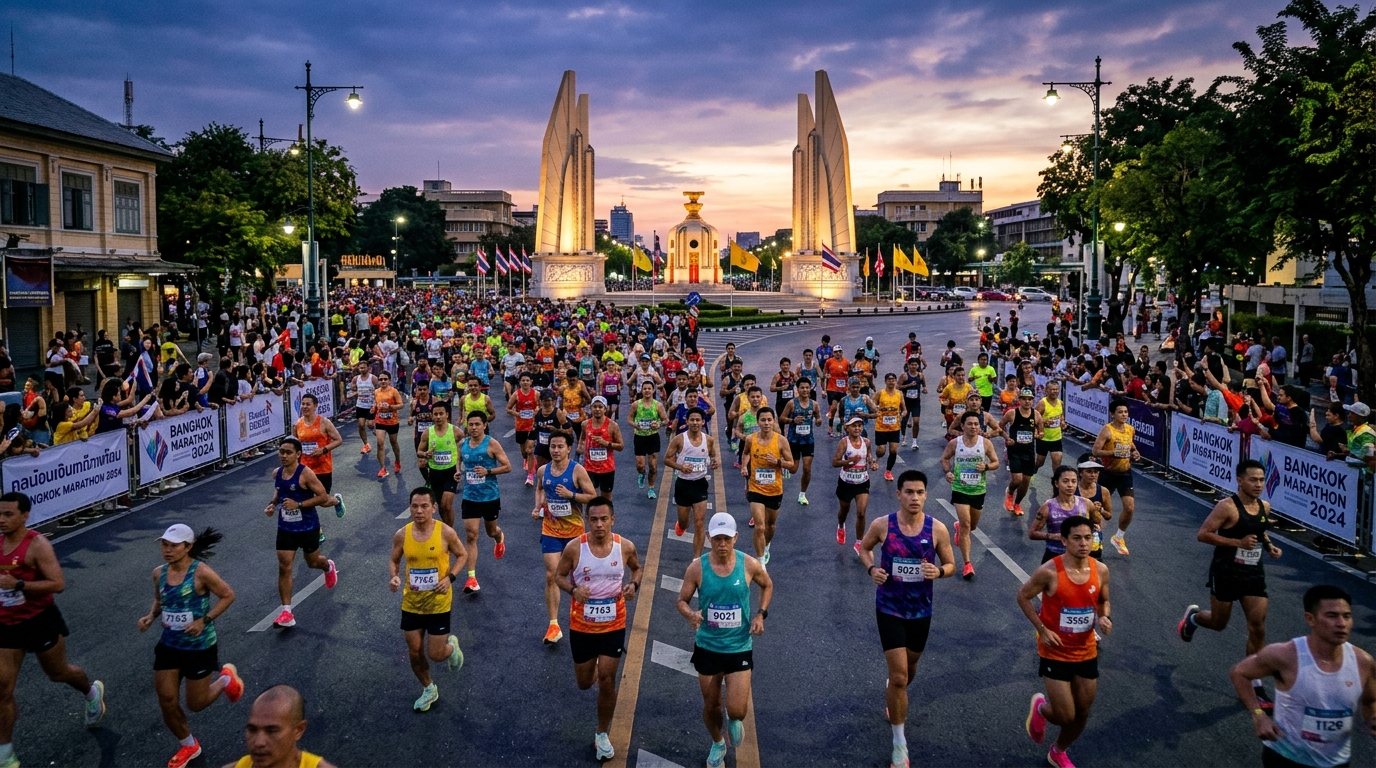
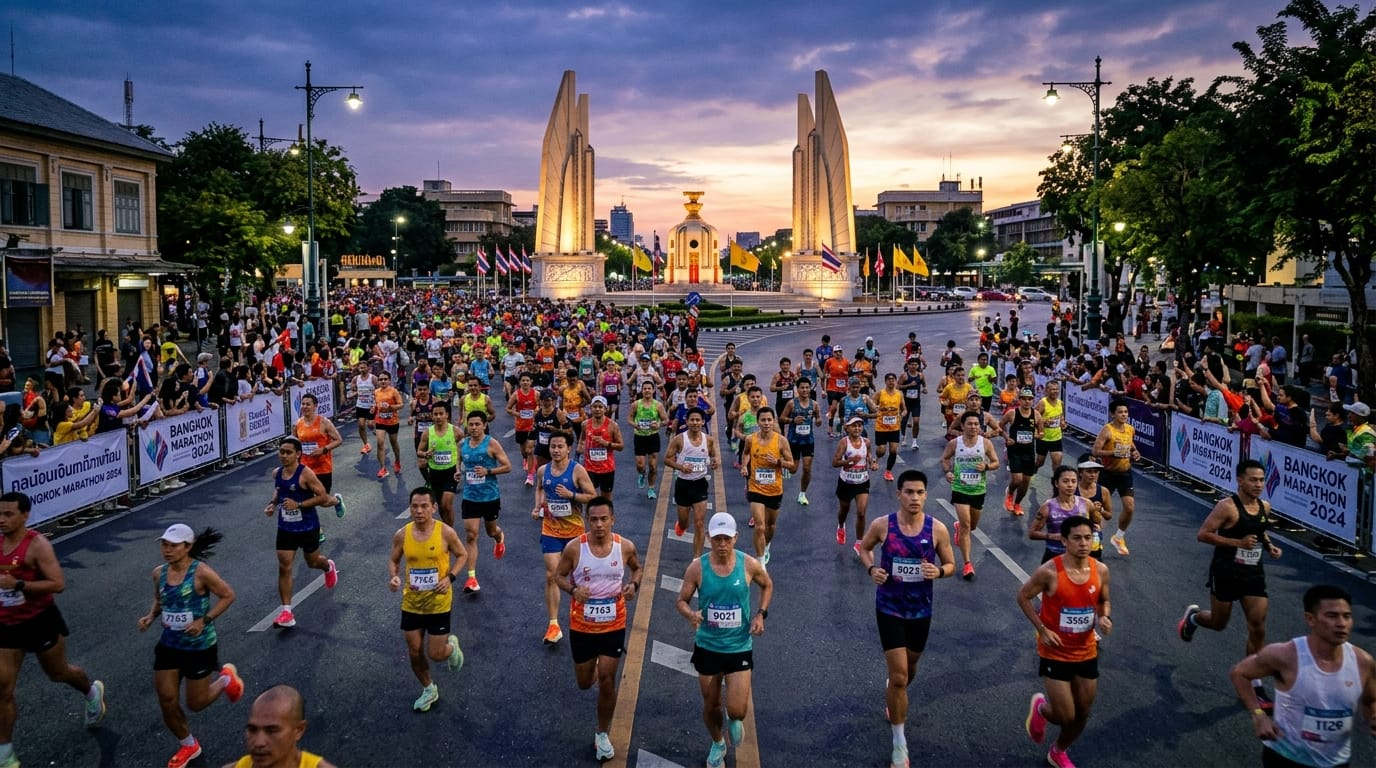
fix: review of Gemini's admin wizard merge: member's own place suggestions, smaller ATMBKK pictures (BE-388)
- PlacePicker "แนะนำช่วงนี้" uses /api/spots?home=1 (the member's picks) instead
  of the first four places in the catalog
- ATMBKK pictures resized to 1600px, quality 80: 4.4 MB -> 0.94 MB

diff --git a/components/moments/PlacePicker.tsx b/components/moments/PlacePicker.tsx
@@ -36,16 +36,16 @@ export function PlacePicker({ mine, onPickTarget, onPickName, onClose }: {
   const [near, setNear] = useState<{ lat: number; lng: number } | null>(null);
   const q = query.trim();
 
-  // Popular spots & upcoming events so first-time users see choices right away without GPS or typing
+  // Upcoming events and the places picked for this member (the home page's, ?home=1) so first-time posters see choices without GPS or typing
   useEffect(() => {
     let active = true;
     const get = (url: string) => fetch(url).then((res) => res.json()).catch(() => ({}));
-    Promise.all([get('/api/events?limit=3'), get('/api/spots?limit=4')]).then(([events, spots]) => {
+    Promise.all([get('/api/events?limit=3'), get('/api/spots?home=1')]).then(([events, spots]) => {
       if (!active) return;
       const seen = new Set(mine.map((item) => `${item.type}:${item.id}`));
       const combined: MomentLinkTarget[] = [
         ...((events.events ?? []) as EventItem[]).map((e) => ({ type: e.eventType === 'public_venue' ? ('fair' as const) : ('community' as const), id: e.id, title: e.title, location: e.location || '' })),
-        ...((spots.spots ?? []) as LifestyleSpotItem[]).map((s) => ({ type: 'spot' as const, id: s.id, title: s.title, location: [s.district, s.province].filter(Boolean).join(', ') })),
+        ...((spots.spots ?? []) as LifestyleSpotItem[]).slice(0, 4).map((s) => ({ type: 'spot' as const, id: s.id, title: s.title, location: [s.district, s.province].filter(Boolean).join(', ') })),
       ].filter((item) => !seen.has(`${item.type}:${item.id}`));
       setFeatured(combined);
     });
